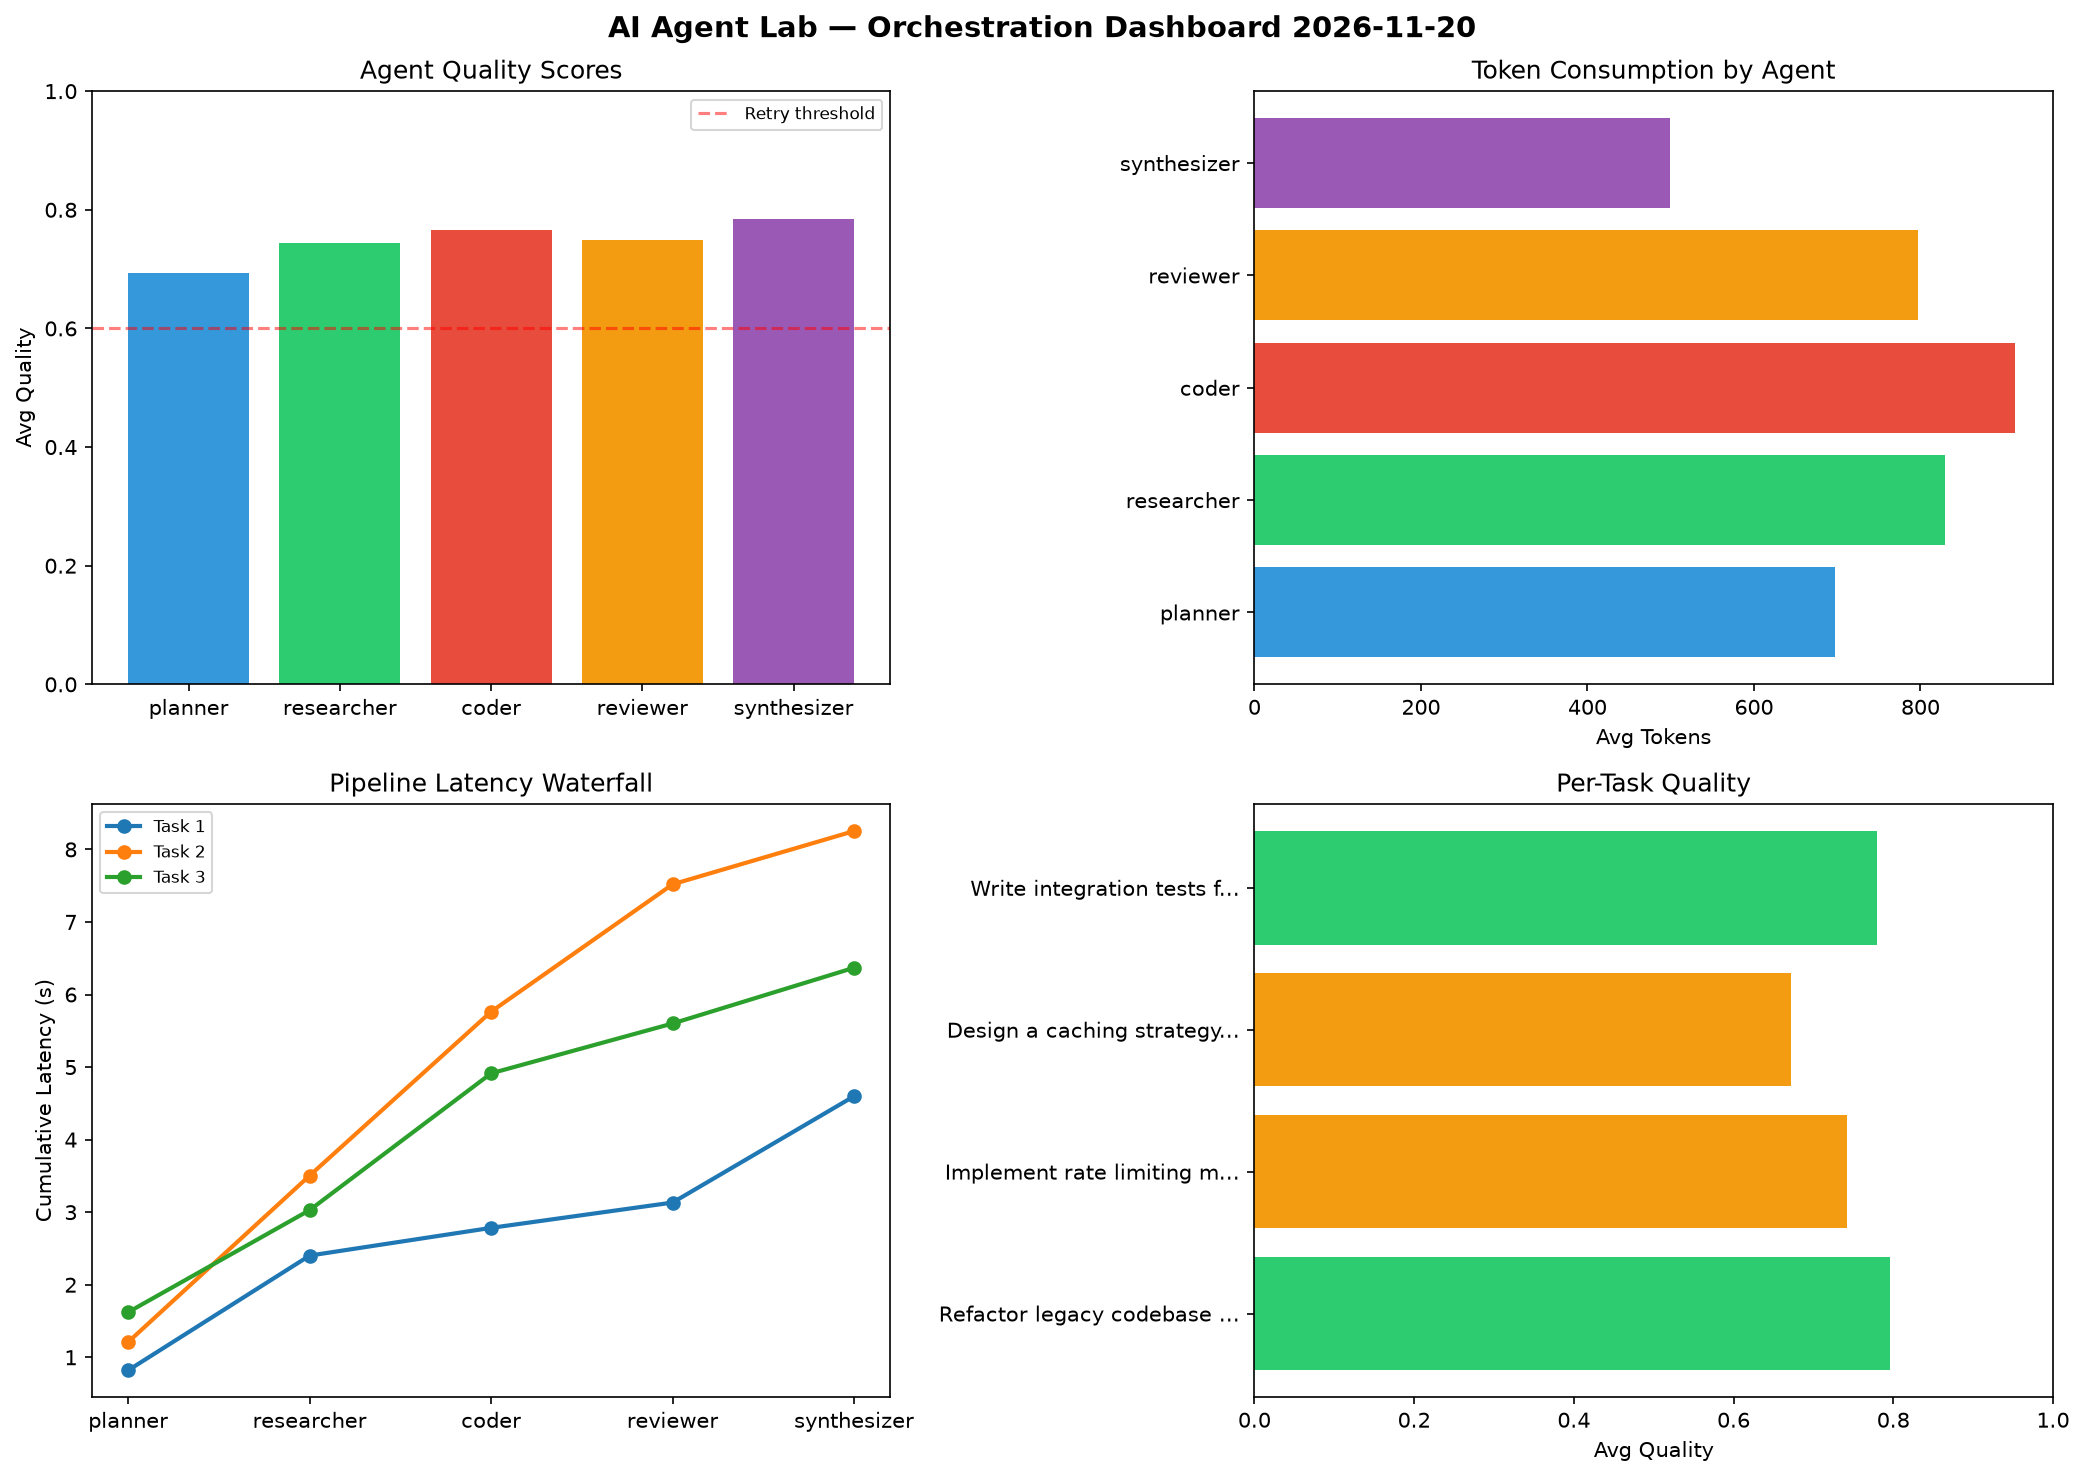
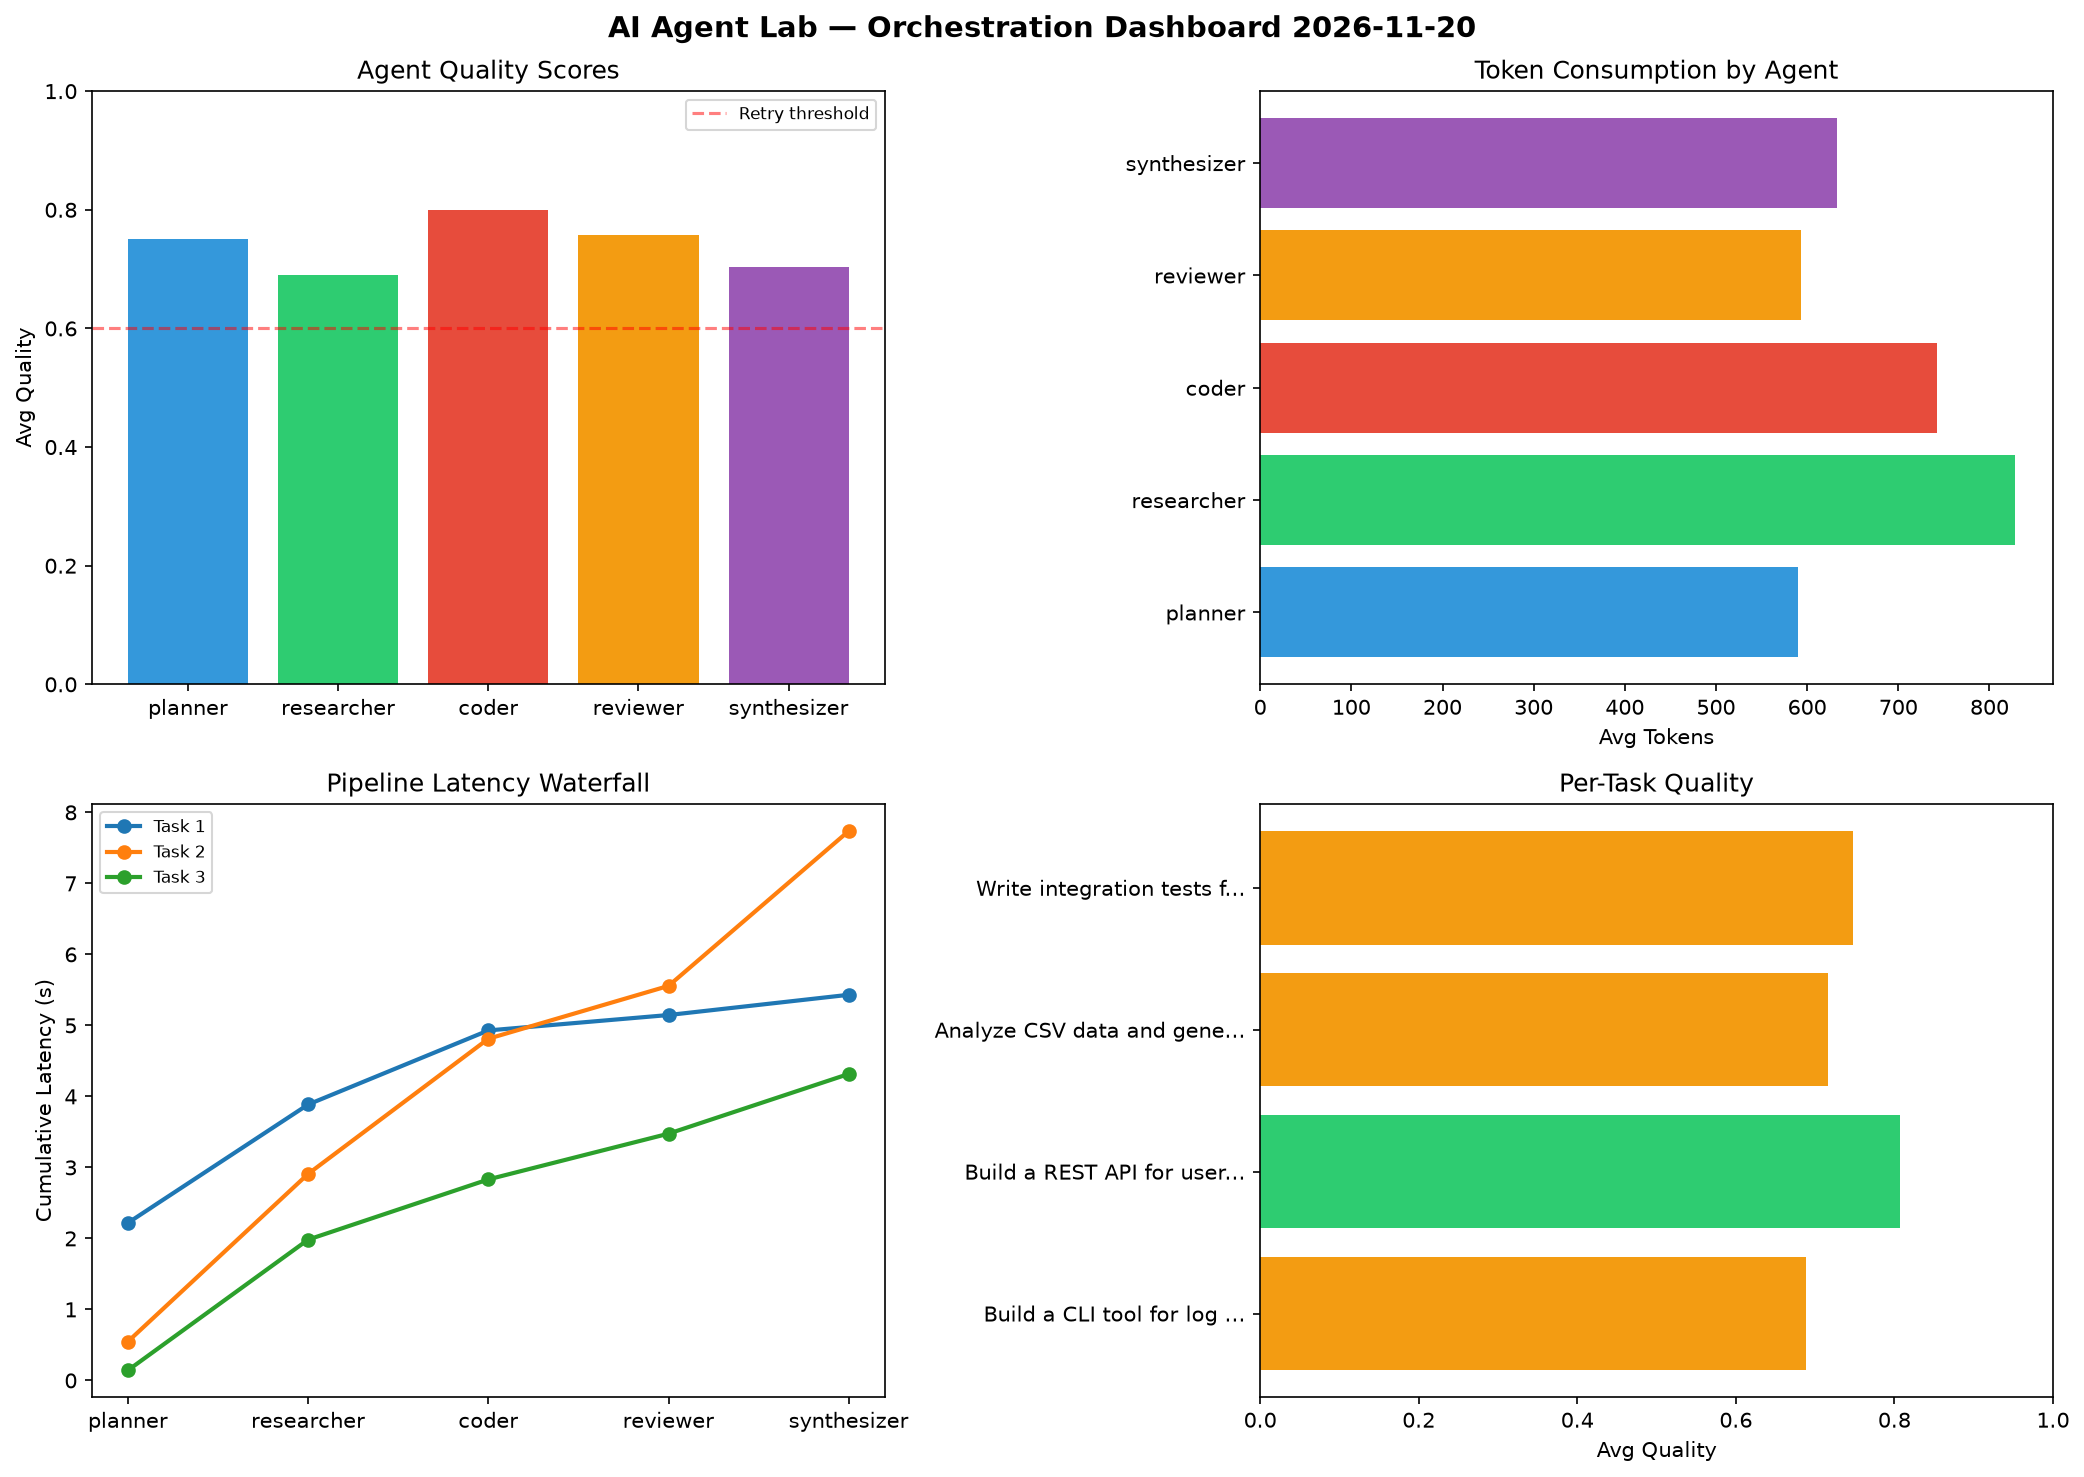
ai-agent-lab: orchestration run 2026-11-20T21:50

diff --git a/logs/2026-11-20.md b/logs/2026-11-20.md
@@ -1,6 +1,6 @@
 # AI Agent Lab — Orchestration Report 2026-11-20
 
-**Run ID:** `c9b16c5f2b` | **Tasks:** 4 | **Avg Quality:** 0.747
+**Run ID:** `227cba7e2f` | **Tasks:** 4 | **Avg Quality:** 0.74
 
 ![Dashboard](2026-11-20_dashboard.png)
 
@@ -8,52 +8,52 @@
 
 | Metric | Value |
 |--------|-------|
-| avg_latency | 6.099 |
-| total_tokens | 14944 |
-| avg_quality | 0.747 |
+| avg_latency | 5.306 |
+| total_tokens | 13544 |
+| avg_quality | 0.74 |
 
 ## Delta vs Yesterday
 
 | Metric | Today | Yesterday | Change |
 |--------|-------|-----------|--------|
-| avg_latency | 6.099 | 7.257 | 📉 -16.0% |
-| total_tokens | 14944 | 14037 | 📈 6.5% |
-| avg_quality | 0.747 | 0.802 | 📉 -6.9% |
+| avg_latency | 5.306 | 7.257 | 📉 -26.9% |
+| total_tokens | 13544 | 14037 | 📉 -3.5% |
+| avg_quality | 0.74 | 0.802 | 📉 -7.7% |
 
 ## Pipeline Results
 
-### Refactor legacy codebase to use dependency injection
+### Build a CLI tool for log analysis
 | Agent | Quality | Latency | Tokens | Status |
 |-------|---------|---------|--------|--------|
-| planner | 0.752 | 0.821s | 755 | success |
-| researcher | 0.707 | 1.581s | 690 | success |
-| coder | 0.987 | 0.382s | 1080 | success |
-| reviewer | 0.953 | 0.349s | 770 | success |
-| synthesizer | 0.581 | 1.466s | 496 | needs_retry |
+| planner | 0.635 | 2.219s | 1171 | success |
+| researcher | 0.768 | 1.667s | 479 | success |
+| coder | 0.743 | 1.043s | 376 | success |
+| reviewer | 0.556 | 0.217s | 457 | needs_retry |
+| synthesizer | 0.744 | 0.285s | 212 | success |
 
-### Implement rate limiting middleware
+### Build a REST API for user authentication
 | Agent | Quality | Latency | Tokens | Status |
 |-------|---------|---------|--------|--------|
-| planner | 0.592 | 1.211s | 820 | needs_retry |
-| researcher | 0.881 | 2.294s | 1171 | success |
-| coder | 0.58 | 2.259s | 548 | needs_retry |
-| reviewer | 0.754 | 1.755s | 461 | success |
-| synthesizer | 0.902 | 0.734s | 423 | success |
+| planner | 0.969 | 0.548s | 339 | success |
+| researcher | 0.75 | 2.361s | 1155 | success |
+| coder | 0.595 | 1.903s | 691 | needs_retry |
+| reviewer | 0.854 | 0.744s | 857 | success |
+| synthesizer | 0.867 | 2.181s | 921 | success |
 
-### Design a caching strategy for high-traffic endpoints
+### Analyze CSV data and generate statistical summary
 | Agent | Quality | Latency | Tokens | Status |
 |-------|---------|---------|--------|--------|
-| planner | 0.506 | 1.622s | 671 | needs_retry |
-| researcher | 0.791 | 1.407s | 727 | success |
-| coder | 0.638 | 1.885s | 1100 | success |
-| reviewer | 0.626 | 0.687s | 728 | success |
-| synthesizer | 0.797 | 0.768s | 268 | success |
+| planner | 0.781 | 0.143s | 323 | success |
+| researcher | 0.558 | 1.84s | 875 | needs_retry |
+| coder | 0.915 | 0.848s | 965 | success |
+| reviewer | 0.72 | 0.644s | 560 | success |
+| synthesizer | 0.607 | 0.841s | 507 | success |
 
 ### Write integration tests for payment processing module
 | Agent | Quality | Latency | Tokens | Status |
 |-------|---------|---------|--------|--------|
-| planner | 0.922 | 0.53s | 542 | success |
-| researcher | 0.594 | 1.081s | 729 | needs_retry |
-| coder | 0.857 | 1.029s | 926 | success |
-| reviewer | 0.666 | 1.779s | 1229 | success |
-| synthesizer | 0.857 | 0.757s | 810 | success |
+| planner | 0.619 | 0.674s | 527 | success |
+| researcher | 0.681 | 0.208s | 804 | success |
+| coder | 0.943 | 1.874s | 938 | success |
+| reviewer | 0.899 | 0.35s | 497 | success |
+| synthesizer | 0.596 | 0.633s | 890 | needs_retry |
